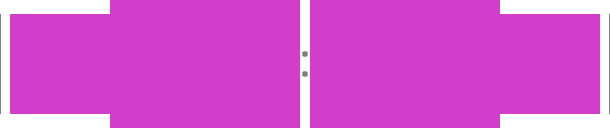
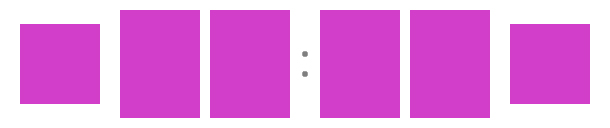
Added Turn Indicators.

Changed region(s): [[0.0, 0.0, 1.0, 1.0]]

diff --git a/Scripts/MegaTTT.js b/Scripts/MegaTTT.js
@@ -41,14 +41,6 @@ var oScoreDigits : Texture2D[]; //текстуры для O
 // Turn Labels
 var xTurnImage : Texture2D[];
 var oTurnImage : Texture2D[];
-private var xTurnImageOffset_x : int;
-private var xTurnImageOffset_y : int;
-private var oTurnImageOffset_x : int;
-private var oTurnImageOffset_y : int;
-xTurnImageOffset_x = 10;
-xTurnImageOffset_y = 68;
-oTurnImageOffset_x = 545;
-oTurnImageOffset_y = 68;
 
 //////////
 //GAMEPLAY
@@ -83,13 +75,13 @@ function OnGUI() {
 
 function DrawGamePanel() {
 	// Position
-	var x : int;
-	var y : int;
-	x = Screen.width/2 - gamePanelBackground.width/2;
-	y = 0;
+	var X : int;
+	var Y : int;
+	X = Screen.width/2 - gamePanelBackground.width/2;
+	Y = 0;
 	
 	// Background
-	GUI.Label(Rect(x, y, gamePanelBackground.width, gamePanelBackground.height), gamePanelBackground);
+	GUI.Label(Rect(X, Y, gamePanelBackground.width, gamePanelBackground.height), gamePanelBackground);
 	
 	//Score
 	var xScoreOffset_x : int;
@@ -103,7 +95,26 @@ function DrawGamePanel() {
 	var lDigit : int;
 	var rDigit : int;
 	
-	//Turn
+	//Turn Indicators
+	var xTurnImageOffset_x : int;
+	var xTurnImageOffset_y : int;
+	var oTurnImageOffset_x : int;
+	var oTurnImageOffset_y : int;
+	xTurnImageOffset_x = 20;
+	xTurnImageOffset_y = 24;
+	oTurnImageOffset_x = 510;
+	oTurnImageOffset_y = 24;
+	
+	if (turn == -1) {
+		GUI.Label(Rect(X+xTurnImageOffset_x, Y+xTurnImageOffset_y, xTurnImage[0].width, xTurnImage[0].height), xTurnImage[1]);
+		GUI.Label(Rect(X+oTurnImageOffset_x, Y+oTurnImageOffset_y, oTurnImage[0].width, oTurnImage[0].height), oTurnImage[0]);
+	}
+	else if (turn == 1){
+		GUI.Label(Rect(X+oTurnImageOffset_x, Y+oTurnImageOffset_y, oTurnImage[0].width, oTurnImage[0].height), oTurnImage[1]);
+		GUI.Label(Rect(X+xTurnImageOffset_x, Y+xTurnImageOffset_y, xTurnImage[0].width, xTurnImage[0].height), xTurnImage[0]);
+	}
+	
+	// Score
 }
 
 function DrawBoard() {
@@ -113,7 +124,7 @@ function DrawBoard() {
 	x = Screen.width/2 - (boardSize*boardButtonWidth)/2;
 	y = gamePanelBackground.height;
 	
-	// Buttons
+	// Field Buttons
 	for (var i = 0; i < boardSize; i++) {
 		for (var j = 0; j < boardSize; j++) {
 			if (GUI.Button(Rect(x+j*boardButtons[0].width, y+i*boardButtons[0].height, boardButtons[0].width, boardButtons[0].height), boardButtons[boardState[i][j] + 1])) {
